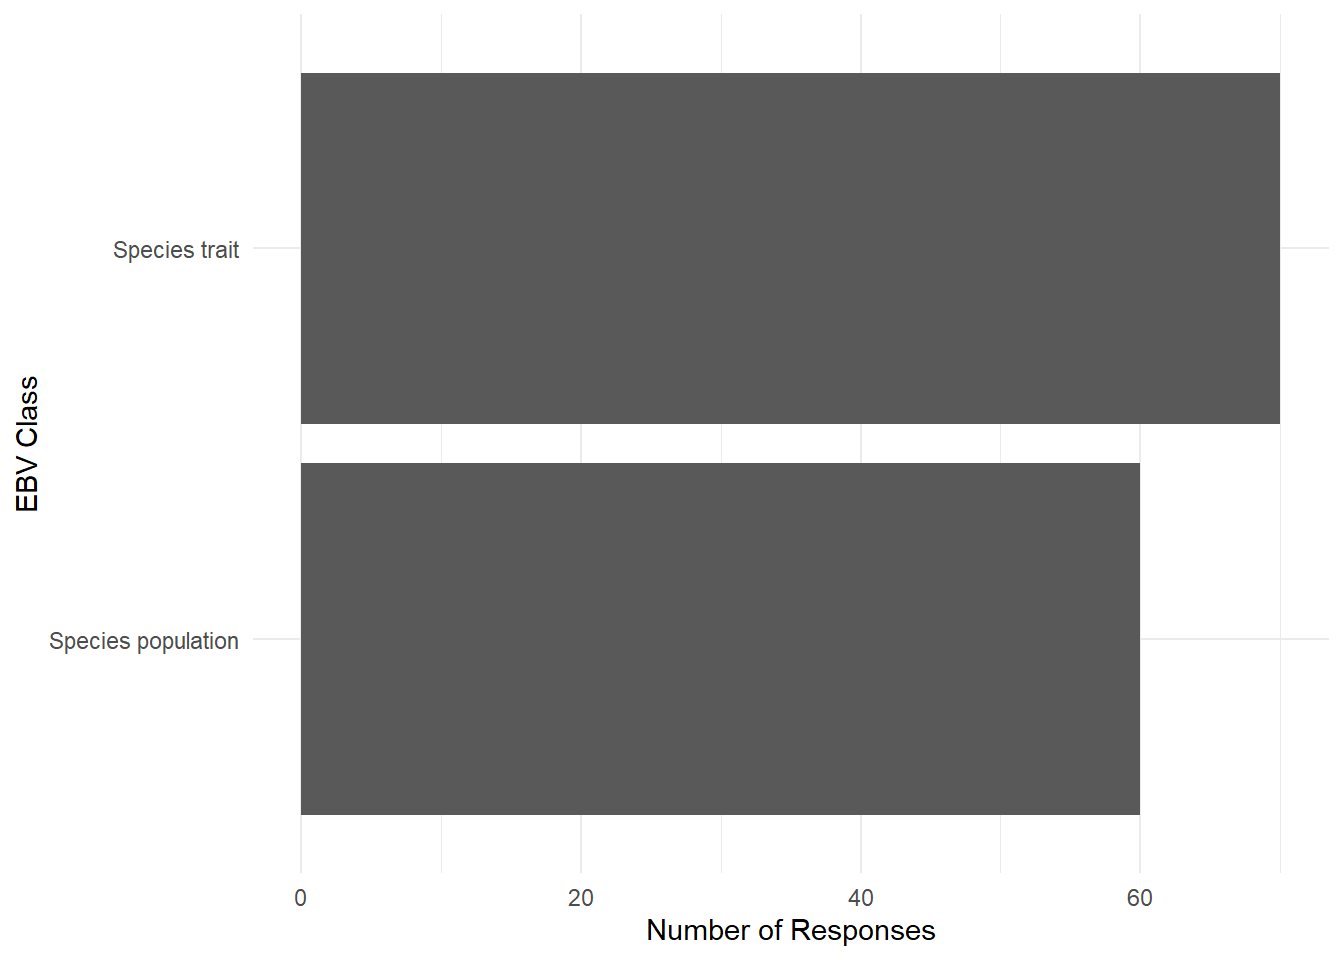
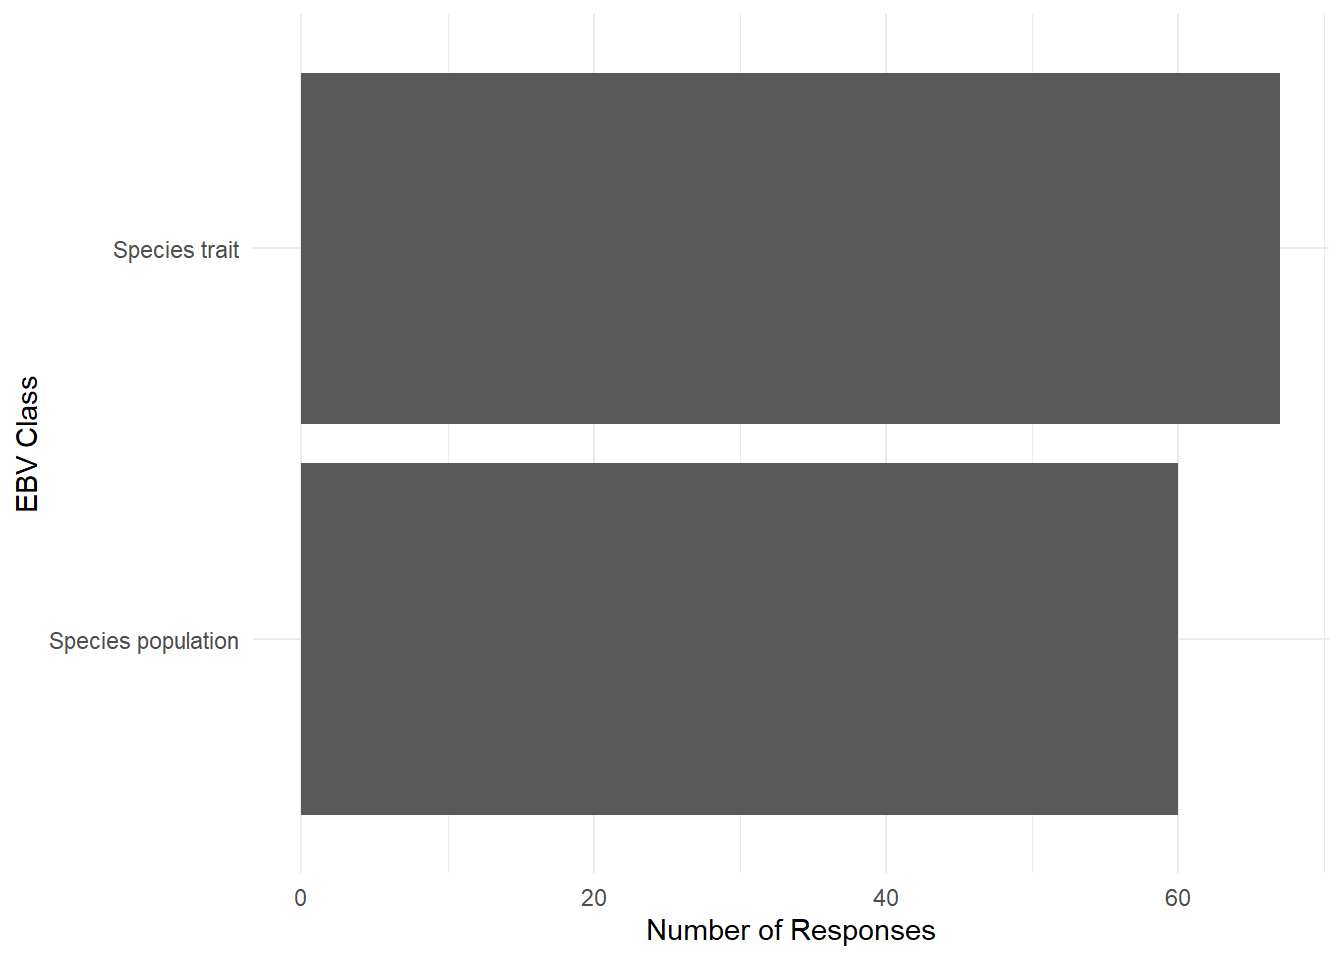
update data, add bracket in bib and update plots

Changed region(s): [[0.8438, 0.4688, 0.875, 0.875], [0.8438, 0.9062, 0.875, 0.9375], [0.625, 0.9062, 0.6562, 0.9375]]

diff --git a/Report/Harvest_pilot_NINA_report.html b/Report/Harvest_pilot_NINA_report.html
@@ -124,7 +124,7 @@ ul.task-list li input[type="checkbox"] {
 <section id="article-screening" class="level2">
 <h2 class="anchored" data-anchor-id="article-screening">Article screening&nbsp;&nbsp;</h2>
 <p>We used pre-determined inclusion/exclusion criteria when screening eligible studies. Excluded papers will be shown in a flowchart using the ROSES flow chart (Haddaway et al.&nbsp;2020). Included studies was de-duplicated based on DOI and title matches using the deduplication tool in Rayyan.&nbsp;&nbsp;</p>
-<p>After de-duplication, title and abstract screening was done using the eligibility criteria. If uncertainty remained, the full text version was visited to confirm/reject. The screening was done using Rayyan. A set of XX papers was reviewed by three members of the review team to ensure consistency.&nbsp;&nbsp;</p>
+<p>After de-duplication, title and abstract screening was done using the eligibility criteria. If uncertainty remained, the full text version was visited to confirm/reject. The screening was done using Rayyan. A set of 54 papers was reviewed by three members of the review team to ensure consistency.&nbsp;&nbsp;</p>
 <section id="eligibility-criteria" class="level3">
 <h3 class="anchored" data-anchor-id="eligibility-criteria">Eligibility criteria&nbsp;</h3>
 <p>We reviewed scientific articles from all parts of the world. We included papers covering all galliform species. Studies of both native and introduced populations were eligible. Studies of all spatial scales and across all relevant ecosystems were considered eligible. Only studies documenting the effects of legal and/or managed harvest on galliform populations were eligible. Studies of poaching were not eligible. The effects must be assessed quantitatively for the study to be eligible. Eligible outcomes included effects of harvest on population abundance, density, sex- and age structure, recruitment, survival, behaviour, genetic, physiology and distribution. Studies focusing on lead (or heavy metal) poisoning or content in wild birds from shooting were not eligible. Both observational and experimental study designs are eligible. Mathematical simulation studies are eligible.&nbsp;&nbsp;&nbsp;&nbsp;</p>
@@ -287,7 +287,7 @@ ul.task-list li input[type="checkbox"] {
 <p>Our searches returned 1023 articles in total, with 542 from Web of Science, 112 from lens.org, 9 benchmark articles and 192 from backward-, and 168 from forward citation chasing from the three benchmark articles mentioned above (Sandercock et al.&nbsp;2011; Pedersen et al.&nbsp;2004; Sedinger &amp; Rotella 2005). Of these 173 were duplicates which were removed from the database. We screened the remaining 850 articles for eligibility at the Abstract and Title stage.</p>
 <p>Of these 850 articles 200 were included (166 “include” and 34 “maybe”) with 9 conflicts (where reviewers disagreed on eligibility). All these papers were taken through to the fulltext stage and assessed for eligibility.</p>
 <p>Exclusion decisions (650 articles) were due to the research not focusing on the effects of legal or managed hunting (365), not being focused on Galliformes (276), not quantitative (23), abstract not found online (16) and abstract not in English, Norwegian, Swedish or Danish (3).</p>
-<p>At the fulltext stage 94 articles were excluded (3 with no available pdf, 6 not focused on Galliformes, 12 not assessing the effects of hunting quantitatively and the rest, 61, not documenting the effects of legal harvest). This left 133 which went forward to the data extraction stage.</p>
+<p>At the fulltext stage 90 articles were excluded (3 with no available pdf, 6 not focused on Galliformes, 12 not assessing the effects of hunting quantitatively and the rest, 61, not documenting the effects of legal harvest). This left 129 which went forward to the data extraction stage.</p>
 <div class="cell">
 <div class="cell-output-display">
 <div>
